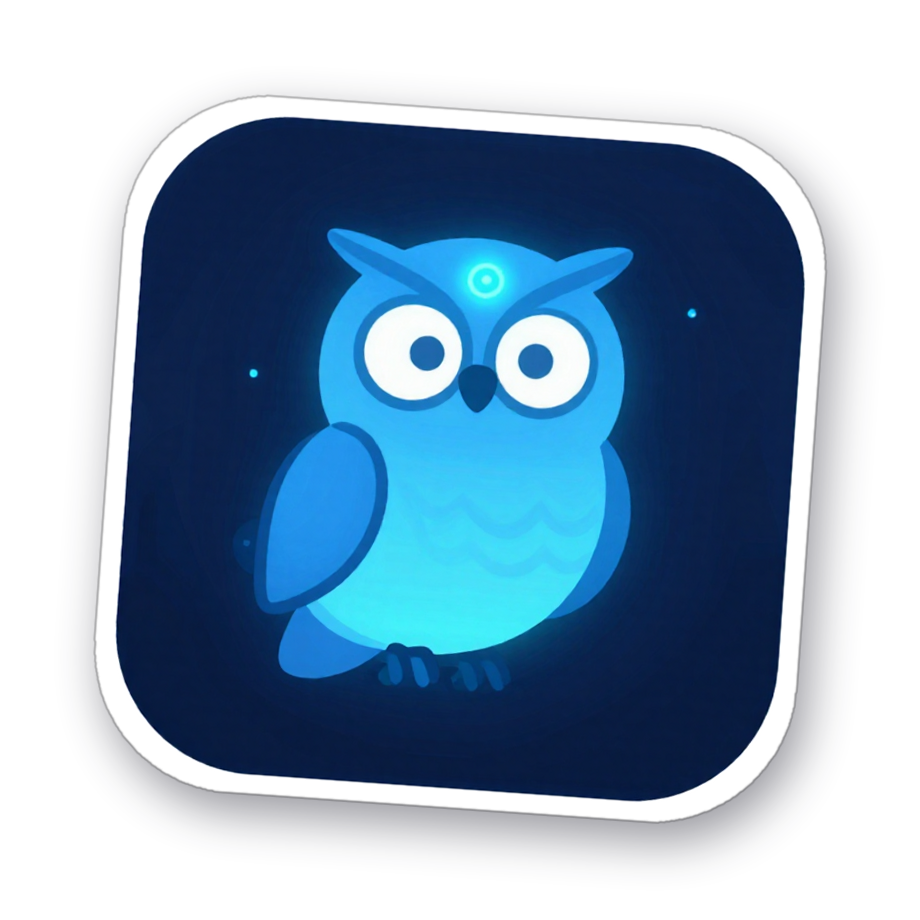
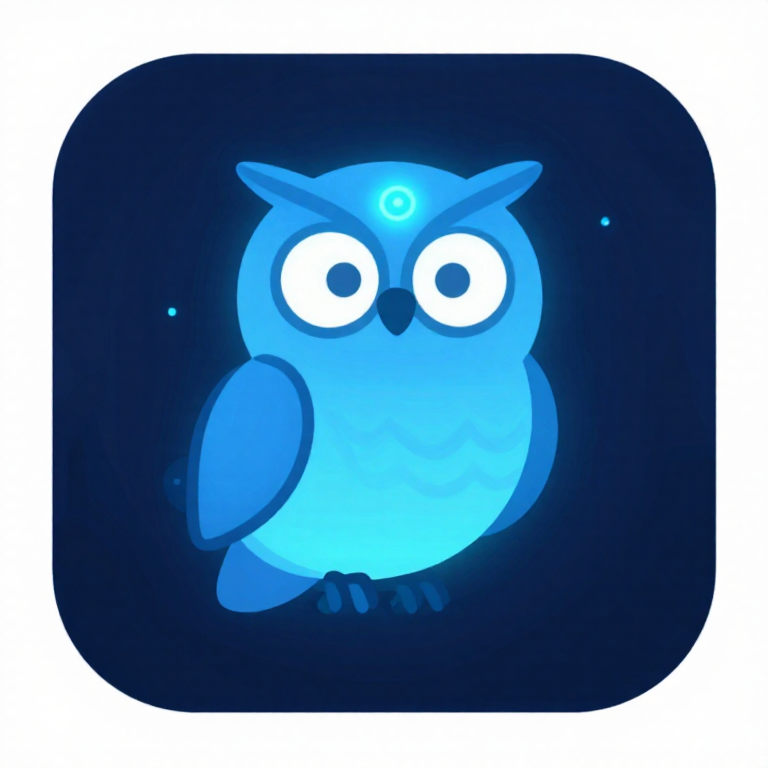
Generate the page from the brand repo, with a link preview card (#5)

diff --git a/docs/index.html b/docs/index.html
@@ -8,7 +8,12 @@
   <link rel="icon" href="icon.png">
   <meta property="og:title" content="watchmen">
   <meta property="og:description" content="A companion session that keeps the watch over your work.">
-  <meta property="og:image" content="https://pelayomendez.github.io/watchmen/icon.png">
+  <meta property="og:url" content="https://pelayomendez.github.io/watchmen/">
+  <meta property="og:image" content="https://pelayomendez.github.io/watchmen/og.png">
+  <meta property="og:image:width" content="1200">
+  <meta property="og:image:height" content="627">
+  <meta name="twitter:card" content="summary_large_image">
+  <!-- Generated by pelayomendez/brand (scripts/build.mjs) from tools/watchmen.md: edit it there. -->
   <style>
     :root { --ink: #1E1E2A; --cream: #FFF4E0; --accent: #5B8DEF; --dim: #a9a6b8; }
     * { box-sizing: border-box; }
@@ -21,7 +26,7 @@
     h2 { color: var(--accent); font-size: 20px; margin: 44px 0 10px; }
     pre { background: #12121a; border: 1px solid #2c2c3c; border-radius: 10px; padding: 16px 18px; overflow-x: auto; font: 14px/1.5 ui-monospace, SFMono-Regular, Menlo, monospace; }
     code { font-family: ui-monospace, SFMono-Regular, Menlo, monospace; }
-    .amber { color: var(--accent); } .green { color: #4FB477; } .red { color: #E5484D; } .mute { color: var(--dim); }
+    .amber { color: #F2A541; } .green { color: #4FB477; } .red { color: #E5484D; } .teal { color: #2EC4B6; } .accent { color: var(--accent); } .mute { color: var(--dim); }
     table { border-collapse: collapse; width: 100%; }
     td { padding: 8px 10px; border-top: 1px solid #2c2c3c; vertical-align: top; }
     td:first-child { white-space: nowrap; font-weight: 600; }
@@ -46,7 +51,7 @@
 │ <span class="red">Needs you (2)</span>                          │
 │   ◆ [mr] !123 frames — 2 new comments  │
 │   • [todo] Update plan v3              │
-│ <span class="amber" style="color:#2EC4B6">Moving (1)</span>                             │
+│ <span class="teal">Moving (1)</span>                             │
 │   • [session] ABC-10001 — slice 2/4    │
 │ <span class="mute">Waiting (1)</span>                            │
 │   • [jira] ABC-10003 — backend fields  │
@@ -63,7 +68,7 @@
   <p>It runs the <a href="https://github.com/pelayomendez/pelayo-skills">ambient-companion</a> process under a charter of what it may do alone, must ask first, and never does. It never writes product code and never acts in your other sessions: it watches, sorts and asks. It stays on all day on sonnet and hands any task you give it to an opus subagent; before its cache goes cold it writes a handoff and starts small again.</p>
 
   <h2>In herdr</h2>
-  <p>As a <a href="https://herdr.dev">herdr</a> plugin, one key summons the watch beside whatever tab you are on and a second sends it home. Follow mode brings it along as you switch tabs, and the sidebar shows each space's state: <span class="red">⚛ 2 need you</span>, <span class="amber">⚛ 1 changed</span>, <span class="mute">⚛ quiet</span>.</p>
+  <p>As a <a href="https://herdr.dev">herdr</a> plugin, one key summons the watch beside whatever tab you are on and a second sends it home. Follow mode brings it along as you switch tabs, and the sidebar shows each space's state: <span class="red">⚛ 2 need you</span>, <span class="accent">⚛ 1 changed</span>, <span class="mute">⚛ quiet</span>.</p>
 
   <h2 id="install">Install</h2>
 <pre>git clone https://github.com/pelayomendez/watchmen
